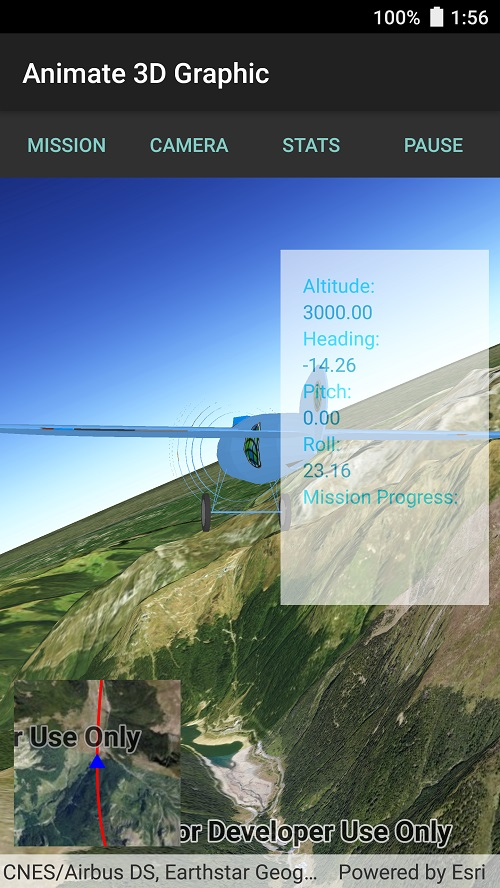
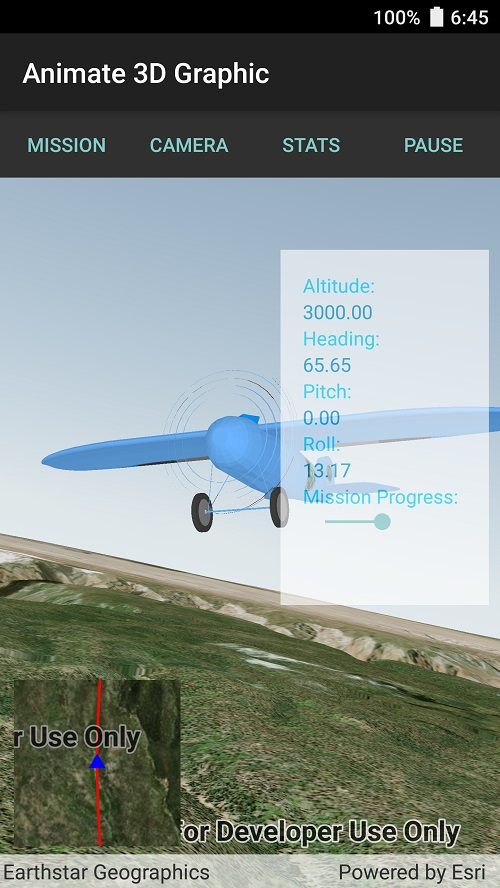
Changes from code review

diff --git a/src/Forms/Shared/Samples/GraphicsOverlay/Animate3DGraphic/Animate3DGraphic.xaml b/src/Forms/Shared/Samples/GraphicsOverlay/Animate3DGraphic/Animate3DGraphic.xaml
@@ -15,7 +15,7 @@
             <ColumnDefinition Width="*" />
             <ColumnDefinition Width="150" />
         </Grid.ColumnDefinitions>
-        <esriUI:SceneView x:Name="MySceneView" Grid.Row="0" Grid.Column="0" Grid.ColumnSpan="3" Grid.RowSpan="3" />
+        <esriUI:SceneView x:Name="MySceneView" Grid.Row="0" Grid.Column="0" Grid.ColumnSpan="3" Grid.RowSpan="3" AtmosphereEffect="Realistic" />
         <StackLayout Grid.Row="0" Grid.Column="0" Grid.ColumnSpan="3" Orientation="Horizontal" Margin="5">
             <Picker x:Name="MissionSelectionBox" />
             <Button Clicked="MissionPlayPlauseClick" Margin="5,0,0,0" Text="Pause" />
@@ -25,7 +25,7 @@
             <!-- Frame is hidden on iOS due to layout issues -->
             <StackLayout Padding="5" Opacity=".7" BackgroundColor="White">
                 <Label TextColor="Black" Text="Mission Progress:" />
-                <Slider x:Name="MissionProgressBar" WidthRequest="100" Minimum="0" Maximum="100" ValueChanged="MissionProgressOnSeek" />
+                <Slider x:Name="MissionProgressBar" Maximum="100" ValueChanged="MissionProgressOnSeek" />
                 <Label TextColor="Black" >Altitude:</Label>
                 <Label TextColor="Black" x:Name="AltitudeLabel" />
                 <Label TextColor="Black">Heading:</Label>

diff --git a/src/UWP/ArcGISRuntime.UWP.Samples/Samples/GraphicsOverlay/Animate3DGraphic/Animate3DGraphic.xaml b/src/UWP/ArcGISRuntime.UWP.Samples/Samples/GraphicsOverlay/Animate3DGraphic/Animate3DGraphic.xaml
@@ -18,7 +18,7 @@
             <ColumnDefinition Width="*" />
             <ColumnDefinition Width="150" />
         </Grid.ColumnDefinitions>
-        <esriUI:SceneView x:Name="MySceneView" Grid.Row="0" Grid.Column="0" Grid.ColumnSpan="3" Grid.RowSpan="3" />
+        <esriUI:SceneView x:Name="MySceneView" Grid.Row="0" Grid.Column="0" Grid.ColumnSpan="3" Grid.RowSpan="3" AtmosphereEffect="Realistic" />
         <StackPanel Grid.Row="0" Grid.Column="0" Grid.ColumnSpan="2" Orientation="Horizontal" Margin="5">
             <ComboBox VerticalAlignment="Top" x:Name="MissionSelectionBox"  />
             <Button VerticalAlignment="Top" Click="MissionPlayPlauseClick" Margin="5,0,0,0" >Pause</Button>

diff --git a/src/iOS/Xamarin.iOS/Samples/GraphicsOverlay/Animate3DGraphic/Animate3DGraphic.cs b/src/iOS/Xamarin.iOS/Samples/GraphicsOverlay/Animate3DGraphic/Animate3DGraphic.cs
@@ -64,11 +64,12 @@ namespace ArcGISRuntimeXamarin.Samples.Animate3DGraphic
         };
 
         // Array of frames for the current mission
+        //    A MissionFrame contains the position of the plane for a single moment in the animation
         private MissionFrame[] _missionData;
 
         // Primary UI controls
         private readonly MapView _insetMapView = new MapView();
-        private readonly SceneView _mySceneView = new SceneView();
+        private readonly SceneView _mySceneView = new SceneView { AtmosphereEffect = AtmosphereEffect.Realistic };
         private readonly UIToolbar _controlToolbox = new UIToolbar();
         private readonly UIButton _missionControlButton = new UIButton();
         private readonly UIButton _cameraControlButton = new UIButton();
@@ -76,18 +77,18 @@ namespace ArcGISRuntimeXamarin.Samples.Animate3DGraphic
         private readonly UIButton _playButton = new UIButton();
 
         // Labels for showing statistics
-        private readonly UILabel _altitudeLabel = new UILabel() { TextColor = UIColor.LightTextColor, ShadowColor = UIColor.DarkTextColor };
-        private readonly UILabel _headingLabel = new UILabel() { TextColor = UIColor.LightTextColor, ShadowColor = UIColor.DarkTextColor };
-        private readonly UILabel _pitchLabel = new UILabel() { TextColor = UIColor.LightTextColor, ShadowColor = UIColor.DarkTextColor };
-        private readonly UILabel _rollLabel = new UILabel() { TextColor = UIColor.LightTextColor, ShadowColor = UIColor.DarkTextColor };
-        private readonly UILabel _progressLabel = new UILabel() { TextColor = UIColor.LightTextColor, ShadowColor = UIColor.DarkTextColor };
+        private readonly UILabel _altitudeLabel = new UILabel { TextColor = UIColor.LightTextColor, ShadowColor = UIColor.DarkTextColor };
+        private readonly UILabel _headingLabel = new UILabel { TextColor = UIColor.LightTextColor, ShadowColor = UIColor.DarkTextColor };
+        private readonly UILabel _pitchLabel = new UILabel { TextColor = UIColor.LightTextColor, ShadowColor = UIColor.DarkTextColor };
+        private readonly UILabel _rollLabel = new UILabel { TextColor = UIColor.LightTextColor, ShadowColor = UIColor.DarkTextColor };
+        private readonly UILabel _progressLabel = new UILabel { TextColor = UIColor.LightTextColor, ShadowColor = UIColor.DarkTextColor };
 
         // Labels to explain the labels above
-        private readonly UILabel _altitudeLabelLabel = new UILabel() { Text = "Altitude: ", TextColor = UIColor.LightTextColor, ShadowColor = UIColor.DarkTextColor };
-        private readonly UILabel _headingLabelLabel = new UILabel() { Text = "Heading: ", TextColor = UIColor.LightTextColor, ShadowColor = UIColor.DarkTextColor };
-        private readonly UILabel _pitchLabelLabel = new UILabel() { Text = "Pitch: ", TextColor = UIColor.LightTextColor, ShadowColor = UIColor.DarkTextColor };
-        private readonly UILabel _rollLabelLabel = new UILabel() { Text = "Roll: ", TextColor = UIColor.LightTextColor, ShadowColor = UIColor.DarkTextColor };
-        private readonly UILabel _progressLabelLabel = new UILabel() { Text = "Progress: ", TextColor = UIColor.LightTextColor, ShadowColor = UIColor.DarkTextColor };
+        private readonly UILabel _altitudeLabelLabel = new UILabel { Text = "Altitude: ", TextColor = UIColor.LightTextColor, ShadowColor = UIColor.DarkTextColor };
+        private readonly UILabel _headingLabelLabel = new UILabel { Text = "Heading: ", TextColor = UIColor.LightTextColor, ShadowColor = UIColor.DarkTextColor };
+        private readonly UILabel _pitchLabelLabel = new UILabel { Text = "Pitch: ", TextColor = UIColor.LightTextColor, ShadowColor = UIColor.DarkTextColor };
+        private readonly UILabel _rollLabelLabel = new UILabel { Text = "Roll: ", TextColor = UIColor.LightTextColor, ShadowColor = UIColor.DarkTextColor };
+        private readonly UILabel _progressLabelLabel = new UILabel { Text = "Progress: ", TextColor = UIColor.LightTextColor, ShadowColor = UIColor.DarkTextColor };
 
         // List of labels; this simplifies the code for adding and removing the labels from the layout
         private List<UILabel> _statsLabels;
@@ -182,6 +183,7 @@ namespace ArcGISRuntimeXamarin.Samples.Animate3DGraphic
             _mySceneView.CameraController = _orbitCameraController;
 
             // Create a timer; this animates the plane
+            // The value is the duration of the timer in milliseconds. This controls the speed of the animation (fps)
             _animationTimer = new Timer(60)
             {
                 AutoReset = true
@@ -495,6 +497,7 @@ namespace ArcGISRuntimeXamarin.Samples.Animate3DGraphic
             private MissionFrame(string missionLine)
             {
                 // Split the string into a list of entries (columns)
+                // Example line: -156.3666517,20.6255059,999.999908,83.77659,.00009,-47.766567
                 string[] missionFrameParameters = missionLine.Split(',');
 
                 // Throw if the line isn't valid

diff --git a/src/Android/Xamarin.Android/Samples/GraphicsOverlay/Animate3DGraphic/Animate3DGraphic.cs b/src/Android/Xamarin.Android/Samples/GraphicsOverlay/Animate3DGraphic/Animate3DGraphic.cs
@@ -79,6 +79,7 @@ namespace ArcGISRuntimeXamarin.Samples.Animate3DGraphic
         };
 
         // Array of frames for the current mission
+        //    A MissionFrame contains the position of the plane for a single moment in the animation
         private MissionFrame[] _missionData;
 
         // Status flag controls which camera will be used
@@ -174,6 +175,7 @@ namespace ArcGISRuntimeXamarin.Samples.Animate3DGraphic
             _mySceneView.CameraController = _orbitCameraController;
 
             // Create a timer; this will enable animating the plane
+            // The value is the duration of the timer in milliseconds. This controls the speed of the animation (fps)
             _animationTimer = new Timer(60)
             {
                 Enabled = true,
@@ -269,8 +271,10 @@ namespace ArcGISRuntimeXamarin.Samples.Animate3DGraphic
             // This is needed because the event could be running on a non-UI thread
             RunOnUiThread(() =>
             {
-                // Update the progress slider
+                // Update the progress slider; temporarily remove event subscription to prevent feedback loop
+                _missionProgressBar.ProgressChanged -= MissionProgressOnSeek;
                 _missionProgressBar.Progress = (int)(missionProgress * 100);
+                _missionProgressBar.ProgressChanged += MissionProgressOnSeek;
 
                 // Update stats display
                 _altitudeTextView.Text = currentFrame.Elevation.ToString("F");
@@ -377,6 +381,21 @@ namespace ArcGISRuntimeXamarin.Samples.Animate3DGraphic
             builder.Show();
         }
 
+        private void MissionProgressOnSeek(object sender, EventArgs e)
+        {
+            // Stop the animation
+            _animationTimer.Stop();
+
+            // Get the new mission progress
+            double missionProgress = _missionProgressBar.Progress / 100.0;
+
+            // Update the keyframe based on the progress
+            _keyframe = (int)(missionProgress * _frameCount);
+
+            // Restart the animation
+            _animationTimer.Start();
+        }
+
         private void CreateLayout()
         {
             // Load the layout for the sample from the .axml file
@@ -396,6 +415,9 @@ namespace ArcGISRuntimeXamarin.Samples.Animate3DGraphic
             _playButton = FindViewById<Button>(Resource.Id.playPauseButton);
             LinearLayout statsLayout = FindViewById<LinearLayout>(Resource.Id.statsPanelLayout);
 
+            // Update the SceneView to use an alternative atmosphere effect
+            _mySceneView.AtmosphereEffect = AtmosphereEffect.Realistic;
+
             // Hide the attribution text on the inset map
             _insetMapView.IsAttributionTextVisible = false;
 
@@ -407,6 +429,9 @@ namespace ArcGISRuntimeXamarin.Samples.Animate3DGraphic
 
             // Handle the mission button click
             _missionButton.Click += MissionButtonOnClick;
+
+            // Handle progress bar manipulation
+            _missionProgressBar.ProgressChanged += MissionProgressOnSeek;
 
             // Handle the stats button click by hiding or showing the stats panel
             _statsButton.Click += (sender, args) =>
@@ -442,6 +467,7 @@ namespace ArcGISRuntimeXamarin.Samples.Animate3DGraphic
             private MissionFrame(string missionLine)
             {
                 // Split the string into a list of entries (columns)
+                // Example line: -156.3666517,20.6255059,999.999908,83.77659,.00009,-47.766567
                 string[] missionFrameParameters = missionLine.Split(',');
 
                 // Throw if the line isn't valid

diff --git a/src/Forms/Shared/Samples/GraphicsOverlay/Animate3DGraphic/Animate3DGraphic.xaml.cs b/src/Forms/Shared/Samples/GraphicsOverlay/Animate3DGraphic/Animate3DGraphic.xaml.cs
@@ -68,6 +68,7 @@ namespace ArcGISRuntimeXamarin.Samples.Animate3DGraphic
         };
 
         // Array of frames for the current mission
+        //   A MissionFrame contains the position of the plane for a single moment in the animation
         private MissionFrame[] _missionData;
 
         public Animate3DGraphic()
@@ -91,6 +92,7 @@ namespace ArcGISRuntimeXamarin.Samples.Animate3DGraphic
             // Update the mission selection UI
             MissionSelectionBox.ItemsSource = _missionToItemId.Keys.ToList();
             MissionSelectionBox.SelectedIndex = 0;
+            // Wire up the selection change event to call the ChangeMission method; this method resets the animation and starts a new mission
             MissionSelectionBox.SelectedIndexChanged += async (sender, args) => { await ChangeMission(MissionSelectionBox.SelectedItem.ToString()); };
 
             // Apply the elevation source
@@ -164,6 +166,7 @@ namespace ArcGISRuntimeXamarin.Samples.Animate3DGraphic
             MySceneView.CameraController = _orbitCameraController;
 
             // Start a timer; this animates the plane
+            // The timespan is the length of the timer interval in milliseconds; this controls the animation speed (fps)
             Device.StartTimer(new TimeSpan(0, 0, 0, 0, 60), AnimatePlane);
 
             // Set the initial mission for when the sample loads
@@ -255,8 +258,10 @@ namespace ArcGISRuntimeXamarin.Samples.Animate3DGraphic
             // This is needed because the event could be running on a non-UI thread
             Device.BeginInvokeOnMainThread(() =>
             {
-                // Update the progress slider
+                // Update the progress slider; temporarily remove event subscription to avoid feedback loop
+                MissionProgressBar.ValueChanged -= MissionProgressOnSeek;
                 MissionProgressBar.Value = missionProgress * 100;
+                MissionProgressBar.ValueChanged += MissionProgressOnSeek;
 
                 // Update stats display
                 AltitudeLabel.Text = currentFrame.Elevation.ToString("F");
@@ -340,18 +345,11 @@ namespace ArcGISRuntimeXamarin.Samples.Animate3DGraphic
 
         private void MissionProgressOnSeek(object sender, EventArgs e)
         {
-            // Get a reference to the slider that sent the event
-            Slider sliderControl = (Slider)sender;
-
-            // Return if the user didn't change the progress
-            //    (this event is also fired when the value is changed programmatically)
-            if (!sliderControl.IsFocused)
-            {
-                return;
-            }
-
             // Stop the animation
             _animationTimer = false;
+
+            // Get a reference to the slider that sent the event
+            Slider sliderControl = (Slider)sender;
 
             // Get the new mission progress
             double missionProgress = sliderControl.Value / 100.0;
@@ -406,6 +404,7 @@ namespace ArcGISRuntimeXamarin.Samples.Animate3DGraphic
             private MissionFrame(string missionLine)
             {
                 // Split the string into a list of entries (columns)
+                // Example line: -156.3666517,20.6255059,999.999908,83.77659,0.000105,-47.766567
                 string[] missionFrameParameters = missionLine.Split(',');
 
                 // Throw if the line isn't valid

diff --git a/src/UWP/ArcGISRuntime.UWP.Samples/Samples/GraphicsOverlay/Animate3DGraphic/Animate3DGraphic.xaml.cs b/src/UWP/ArcGISRuntime.UWP.Samples/Samples/GraphicsOverlay/Animate3DGraphic/Animate3DGraphic.xaml.cs
@@ -58,7 +58,8 @@ namespace ArcGISRuntime.UWP.Samples.Animate3DGraphic
             {"Snowdon", "12509ffdc684437f8f2656b0129d2c13"}
         };
 
-        // Array of frames for the current mission
+        // Array of animation frames for the current mission
+        //    A MissionFrame describes the position of the plane for a single moment in the animation
         private MissionFrame[] _missionData;
 
         public Animate3DGraphic()
@@ -78,6 +79,8 @@ namespace ArcGISRuntime.UWP.Samples.Animate3DGraphic
             // Update the mission selection UI
             MissionSelectionBox.ItemsSource = _missionToItemId.Keys;
             MissionSelectionBox.SelectedIndex = 0;
+
+            // Wire up the selection change event to call the ChangeMission method; this method resets the animation and starts a new mission
             MissionSelectionBox.SelectionChanged += async (sender, args) => { await ChangeMission(args.AddedItems[0].ToString()); };
 
             // Apply the elevation source
@@ -153,6 +156,7 @@ namespace ArcGISRuntime.UWP.Samples.Animate3DGraphic
             // Create a timer; this will enable animating the plane
             _animationTimer = new DispatcherTimer()
             {
+                // This is the duration of the timer in milliseconds. This controls the animation speed (fps)
                 Interval = new TimeSpan(0, 0, 0, 0, 60)
             };
 
@@ -415,6 +419,7 @@ namespace ArcGISRuntime.UWP.Samples.Animate3DGraphic
             private MissionFrame(string missionLine)
             {
                 // Split the string into a list of entries (columns)
+                // Example line: -156.3666517,20.6255059,999.999908,83.77659,0.0000105,-47.766567
                 string[] missionFrameParameters = missionLine.Split(',');
 
                 // Throw if the line isn't valid

diff --git a/src/WPF/ArcGISRuntime.WPF.Samples/Samples/GraphicsOverlay/Animate3DGraphic/Animate3DGraphic.xaml.cs b/src/WPF/ArcGISRuntime.WPF.Samples/Samples/GraphicsOverlay/Animate3DGraphic/Animate3DGraphic.xaml.cs
@@ -63,7 +63,7 @@ namespace ArcGISRuntime.WPF.Samples.Animate3DGraphic
         };
 
         // Array of animation frames for the current mission
-        //    A MissionFrame contains the position of the plane for a single moment in the animation
+        //    A MissionFrame describes the position of the plane for a single moment in the animation
         private MissionFrame[] _missionData;
 
         public Animate3DGraphic()
@@ -379,7 +379,6 @@ namespace ArcGISRuntime.WPF.Samples.Animate3DGraphic
                     cameraControlButton.Content = "Follow";
                     // Setting the scene view's camera controller to null has the effect of resetting the value to the default
                     MySceneView.CameraController = null;
-                    
                     break;
             }
         }
